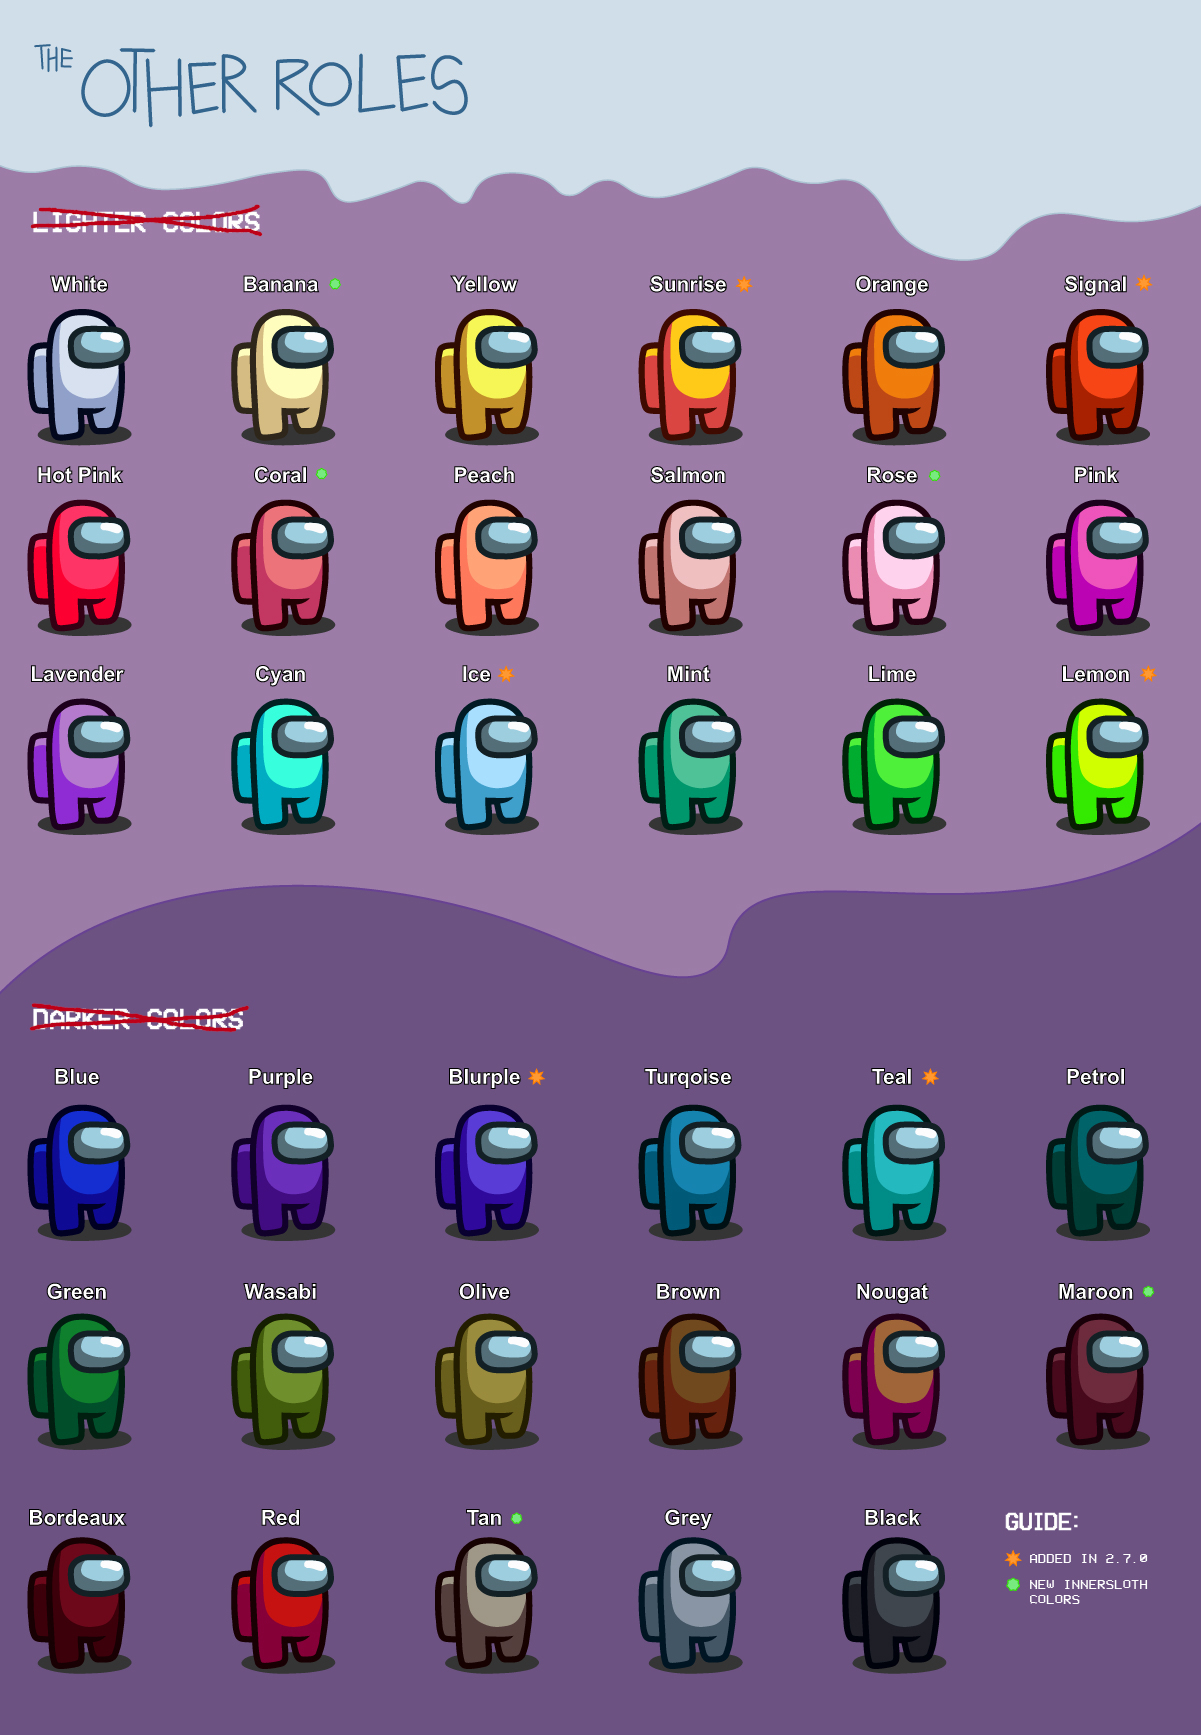
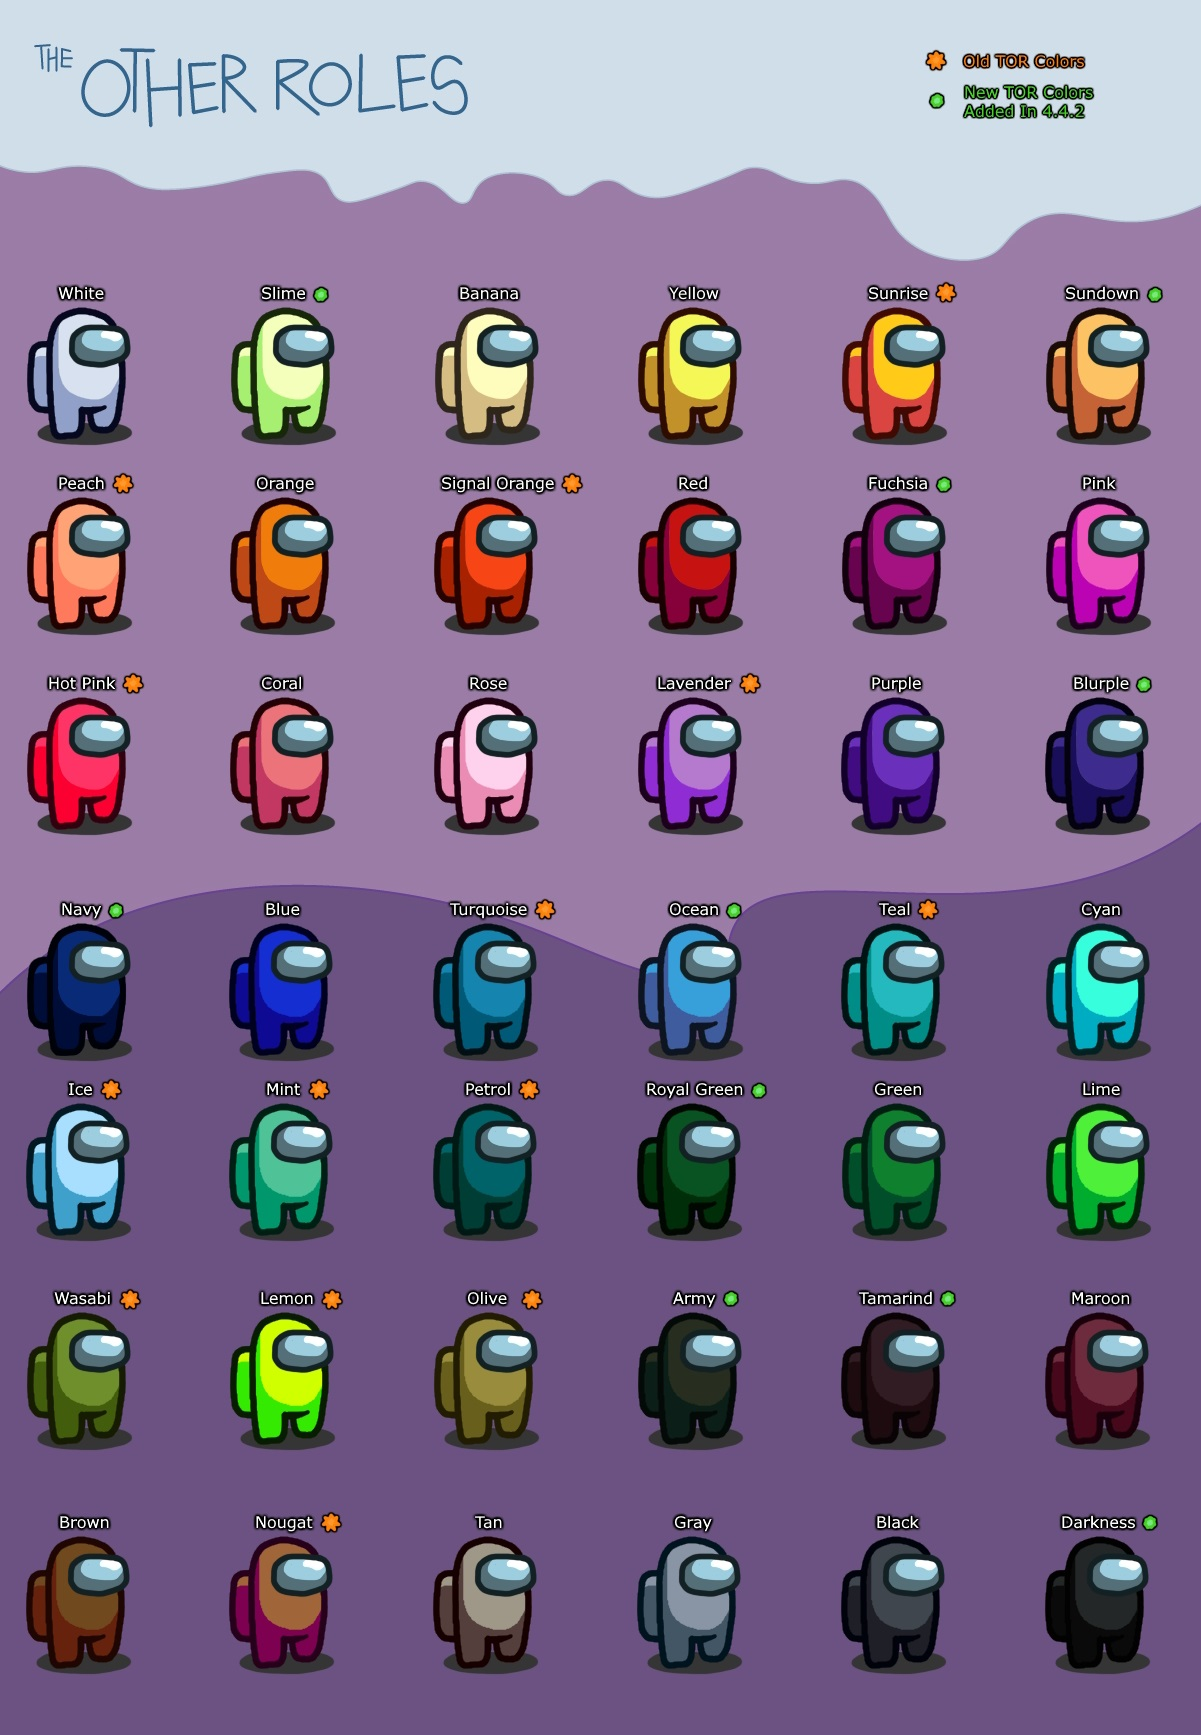
Update to v4.4.2

diff --git a/TheOtherRoles/Modules/CustomColors.cs b/TheOtherRoles/Modules/CustomColors.cs
@@ -10,14 +10,13 @@ namespace TheOtherRoles.Modules {
         protected static Dictionary<int, string> ColorStrings = new Dictionary<int, string>();
         public static List<int> lighterColors = new List<int>(){ 3, 4, 5, 7, 10, 11, 13, 14, 17 };
         public static uint pickableColors = (uint)Palette.ColorNames.Length;
-
-        private static readonly List<int> ORDER = new List<int>() { 7, 14, 5, 33, 4, 
-                                                                    30, 0, 19, 27, 3,
-                                                                    17, 25, 18, 13, 23,
-                                                                    8, 32, 1, 21, 31,
-                                                                    10, 34, 15, 28, 22,
-                                                                    29, 11, 2, 26, 16,
-                                                                    20, 24, 9, 12, 6 };
+        private static readonly List<int> ORDER = new List<int>() { 7, 37, 14, 5, 33, 41, 25,
+                                                                    4, 30, 0, 35, 3, 27, 17,
+                                                                    13, 23, 8, 32, 38, 1, 21,
+                                                                    40, 31, 10, 34, 22, 28, 36,
+                                                                    2, 11, 26, 29, 20, 19, 18,
+                                                                    12, 9, 24, 16, 15, 6, 39,
+                                                                    };
         public static void Load() {
             List<StringNames> longlist = Enumerable.ToList<StringNames>(Palette.ColorNames);
             List<Color32> colorlist = Enumerable.ToList<Color32>(Palette.PlayerColors);
@@ -25,20 +24,23 @@ namespace TheOtherRoles.Modules {
 
             List<CustomColor> colors = new List<CustomColor>();
 
-            /* Custom Colors */
-            colors.Add(new CustomColor { longname = "Salmon",
-                                        color = new Color32(239, 191, 192, byte.MaxValue), // color = new Color32(0xD8, 0x82, 0x83, byte.MaxValue),
-                                        shadow = new Color32(182, 119, 114, byte.MaxValue), // shadow = new Color32(0xA5, 0x63, 0x65, byte.MaxValue),
-                                        isLighterColor = true });
-            colors.Add(new CustomColor { longname = "Bordeaux",
-                                        color = new Color32(109, 7, 26, byte.MaxValue), 
-                                        shadow = new Color32(54, 2, 11, byte.MaxValue),
-                                        isLighterColor = false });
+            /* Custom Colors, starting with id (for ORDER) 18 */
+            colors.Add(new CustomColor {
+                longname = "Tamarind", //18
+                color = new Color32(48, 28, 34, byte.MaxValue),
+                shadow = new Color32(30, 11, 16, byte.MaxValue),
+                isLighterColor = true });
+            colors.Add(new CustomColor {
+                longname = "Army", // 19
+                color = new Color32(39, 45, 31, byte.MaxValue),
+                shadow = new Color32(11, 30, 24, byte.MaxValue),
+                isLighterColor = false });
+            // 20
             colors.Add(new CustomColor { longname = "Olive",
                                         color = new Color32(154, 140, 61, byte.MaxValue), 
                                         shadow = new Color32(104, 95, 40, byte.MaxValue),
-                                        isLighterColor = false });
-            colors.Add(new CustomColor { longname = "Turqoise",
+                                        isLighterColor = true });
+            colors.Add(new CustomColor { longname = "Turquoise",
                                         color = new Color32(22, 132, 176, byte.MaxValue), 
                                         shadow = new Color32(15, 89, 117, byte.MaxValue),
                                         isLighterColor = false });
@@ -54,6 +56,7 @@ namespace TheOtherRoles.Modules {
                                         color = new Color32(160, 101, 56, byte.MaxValue), 
                                         shadow = new Color32(115, 15, 78, byte.MaxValue),
                                         isLighterColor = false });
+            // 25
             colors.Add(new CustomColor { longname = "Peach",
                                         color = new Color32(255, 164, 119, byte.MaxValue), 
                                         shadow = new Color32(238, 128, 100, byte.MaxValue),
@@ -74,44 +77,85 @@ namespace TheOtherRoles.Modules {
                                         color = new Color32(0xDB, 0xFD, 0x2F, byte.MaxValue), 
                                         shadow = new Color32(0x74, 0xE5, 0x10, byte.MaxValue), 
                                         isLighterColor = true });
+            // 30
             colors.Add(new CustomColor { longname = "Signal\nOrange",
                                         color = new Color32(0xF7, 0x44, 0x17, byte.MaxValue), 
                                         shadow = new Color32(0x9B, 0x2E, 0x0F, byte.MaxValue),
                                         isLighterColor = true });   
-
             colors.Add(new CustomColor { longname = "Teal",
                                         color = new Color32(0x25, 0xB8, 0xBF, byte.MaxValue), 
                                         shadow = new Color32(0x12, 0x89, 0x86, byte.MaxValue),
-                                        isLighterColor = false });   
+                                        isLighterColor = true });   
 
             colors.Add(new CustomColor { longname = "Blurple",
-                                        color = new Color32(0x59, 0x3C, 0xD6, byte.MaxValue), 
-                                        shadow = new Color32(0x29, 0x17, 0x96, byte.MaxValue),
+                                        color = new Color32(61, 44, 142, byte.MaxValue), 
+                                        shadow = new Color32(25, 14, 90, byte.MaxValue),
                                         isLighterColor = false });   
 
             colors.Add(new CustomColor { longname = "Sunrise", 
                                         color = new Color32(0xFF, 0xCA, 0x19, byte.MaxValue), 
                                         shadow = new Color32(0xDB, 0x44, 0x42, byte.MaxValue),
                                         isLighterColor = true });
-
             colors.Add(new CustomColor { longname = "Ice",
                                         color = new Color32(0xA8, 0xDF, 0xFF, byte.MaxValue), 
                                         shadow = new Color32(0x59, 0x9F, 0xC8, byte.MaxValue),
-                                        isLighterColor = true });     
-
+                                        isLighterColor = true });
+            // 35
+            colors.Add(new CustomColor { longname = "Fuchsia", //35 Color Credit: LaikosVK
+                                        color = new Color32(164, 17, 129, byte.MaxValue),
+                                        shadow = new Color32(104, 3, 79, byte.MaxValue),
+                                        isLighterColor = false
+            });
+            colors.Add(new CustomColor { longname = "Royal\nGreen", //36
+                                        color = new Color32(9, 82, 33, byte.MaxValue),
+                                        shadow = new Color32(0, 46, 8, byte.MaxValue),
+                                        isLighterColor = false
+            });
+            colors.Add(new CustomColor { longname = "Slime",
+                                        color = new Color32(244, 255, 188, byte.MaxValue),
+                                        shadow = new Color32(167, 239, 112, byte.MaxValue),
+                                        isLighterColor = false
+            });
+            colors.Add(new CustomColor { longname = "Navy", //38
+                                        color = new Color32(9, 43, 119, byte.MaxValue),
+                                        shadow = new Color32(0, 13, 56, byte.MaxValue),
+                                        isLighterColor = false
+            });
+            colors.Add(new CustomColor { longname = "Darkness", //39
+                                        color = new Color32(36, 39, 40, byte.MaxValue),
+                                        shadow = new Color32(10, 10, 10, byte.MaxValue),
+                                        isLighterColor = false
+            });
+            colors.Add(new CustomColor {
+                longname = "Ocean", //40
+                color = new Color32(55, 159, 218, byte.MaxValue),
+                shadow = new Color32(62, 92, 158, byte.MaxValue),
+                isLighterColor = false
+            });
+            colors.Add(new CustomColor {
+                longname = "Sundown", // 41
+                color = new Color32(252, 194, 100, byte.MaxValue),
+                shadow = new Color32(197, 98, 54, byte.MaxValue),
+                isLighterColor = false
+            });
             pickableColors += (uint)colors.Count; // Colors to show in Tab
             /** Hidden Colors **/     
                     
             /** Add Colors **/
             int id = 50000;
+            foreach (var c in Palette.PlayerColors) {
+                TheOtherRolesPlugin.Logger.LogMessage(c);
+            }
             foreach (CustomColor cc in colors) {
                 longlist.Add((StringNames)id);
                 CustomColors.ColorStrings[id++] = cc.longname;
                 colorlist.Add(cc.color);
+                TheOtherRolesPlugin.Logger.LogMessage(cc.color);
                 shadowlist.Add(cc.shadow);
                 if (cc.isLighterColor)
                     lighterColors.Add(colorlist.Count - 1);
             }
+            
 
             Palette.ColorNames = longlist.ToArray();
             Palette.PlayerColors = colorlist.ToArray();
@@ -149,15 +193,15 @@ namespace TheOtherRoles.Modules {
                 public static void Postfix(PlayerTab __instance) { // Replace instead
                     Il2CppArrayBase<ColorChip> chips = __instance.ColorChips.ToArray();
 
-                    int cols = 5; // TODO: Design an algorithm to dynamically position chips to optimally fill space
+                    int cols = 7; // TODO: Design an algorithm to dynamically position chips to optimally fill space
                     for (int i = 0; i < ORDER.Count; i++) {
                         int pos = ORDER[i];
                         if (pos < 0 || pos > chips.Length)
                             continue;
                         ColorChip chip = chips[pos];
                         int row = i / cols, col = i % cols; // Dynamically do the positioning
-                        chip.transform.localPosition = new Vector3(-0.975f + (col * 0.485f), 1.475f - (row * 0.49f), chip.transform.localPosition.z);
-                        chip.transform.localScale *= 0.78f;
+                        chip.transform.localPosition = new Vector3(-0.975f + (col * 0.5f), 1.475f - (row * 0.5f), chip.transform.localPosition.z);
+                        chip.transform.localScale *= 0.76f;
                     }
                     for (int j = ORDER.Count; j < chips.Length; j++) { // If number isn't in order, hide it
                         ColorChip chip = chips[j];

diff --git a/TheOtherRoles/Patches/CredentialsPatch.cs b/TheOtherRoles/Patches/CredentialsPatch.cs
@@ -1,5 +1,8 @@
 using HarmonyLib;
 using System;
+using System.Collections.Generic;
+using System.Net.Http;
+using System.Threading.Tasks;
 using TheOtherRoles;
 using TheOtherRoles.CustomGameModes;
 using TheOtherRoles.Players;
@@ -76,6 +79,10 @@ $@"<size=60%> <color=#FCCE03FF>Special thanks to K3ndo & Smeggy</color></size>";
             public static Sprite horseBannerSprite;
             public static Sprite banner2Sprite;
             private static PingTracker instance;
+
+            public static GameObject motdObject;
+            public static TextMeshPro motdText;
+
             static void Postfix(PingTracker __instance) {
                 var torLogo = new GameObject("bannerLogo_TOR");
                 torLogo.transform.SetParent(GameObject.Find("RightPanel").transform, false);
@@ -96,7 +103,23 @@ $@"<size=60%> <color=#FCCE03FF>Special thanks to K3ndo & Smeggy</color></size>";
                 credentials.fontSize *= 0.05f;
 
                 credentials.transform.SetParent(torLogo.transform);
-                credentials.transform.localPosition = Vector3.down * 2;
+                credentials.transform.localPosition = Vector3.down * 1.25f;
+                motdObject = new GameObject("torMOTD");
+                motdText = motdObject.AddComponent<TextMeshPro>();
+                motdText.alignment = TMPro.TextAlignmentOptions.Center;
+                motdText.fontSize *= 0.04f;
+
+                motdText.transform.SetParent(torLogo.transform);
+                motdText.enableWordWrapping = true;
+                var rect = motdText.gameObject.GetComponent<RectTransform>();
+                rect.sizeDelta = new Vector2(5.2f, 0.25f);
+
+                motdText.transform.localPosition = Vector3.down * 2.25f;
+                motdText.color = new Color(1, 53f / 255, 31f / 255);
+                Material mat = motdText.fontSharedMaterial;
+                mat.shaderKeywords = new string[] { "OUTLINE_ON" };
+                motdText.SetOutlineColor(Color.white);
+                motdText.SetOutlineThickness(0.025f);
             }
 
             public static void loadSprites() {
@@ -121,5 +144,43 @@ $@"<size=60%> <color=#FCCE03FF>Special thanks to K3ndo & Smeggy</color></size>";
                 }
             }
         }
+
+        [HarmonyPatch(typeof(MainMenuManager), nameof(MainMenuManager.LateUpdate))]
+        public static class MOTD {
+            public static List<string> motds = new List<string>();
+            private static float timer = 0f;
+            private static float maxTimer = 5f;
+            private static int currentIndex = 0;
+
+            public static void Postfix() {
+                if (motds.Count == 0) {
+                    timer = maxTimer;
+                    return;
+                }
+                if (motds.Count > currentIndex && LogoPatch.motdText != null)
+                    LogoPatch.motdText.SetText(motds[currentIndex]);
+                else return;
+
+                // fade in and out:
+                float alpha = Mathf.Clamp01(Mathf.Min(new float[] { timer, maxTimer - timer }));
+                if (motds.Count == 1) alpha = 1;
+                LogoPatch.motdText.color = LogoPatch.motdText.color.SetAlpha(alpha);
+                timer -= Time.deltaTime;
+                if (timer <= 0) {
+                    timer = maxTimer;
+                    currentIndex = (currentIndex + 1) % motds.Count;
+                }
+            }
+
+            public static async Task loadMOTDs() {
+                HttpClient client = new HttpClient();
+                HttpResponseMessage response = await client.GetAsync("https://raw.githubusercontent.com/TheOtherRolesAU/MOTD/main/motd.txt");
+                response.EnsureSuccessStatusCode();
+                string motds = await response.Content.ReadAsStringAsync();
+                foreach(string line in motds.Split("\n", StringSplitOptions.RemoveEmptyEntries)) {
+                        MOTD.motds.Add(line);
+                }
+            }
+        }        
     }
 }

diff --git a/TheOtherRoles/RoleInfo.cs b/TheOtherRoles/RoleInfo.cs
@@ -6,6 +6,8 @@ using static TheOtherRoles.TheOtherRoles;
 using UnityEngine;
 using TheOtherRoles.Utilities;
 using TheOtherRoles.CustomGameModes;
+using System.Threading.Tasks;
+using System.Net.Http;
 
 namespace TheOtherRoles
 {
@@ -325,6 +327,27 @@ namespace TheOtherRoles
                 }
             }
             return roleName;
+        }
+
+
+        static string ReadmePage = "";
+        public static async Task loadReadme() {
+            if (ReadmePage == "") {
+                HttpClient client = new HttpClient();
+                HttpResponseMessage response = await client.GetAsync("https://raw.githubusercontent.com/TheOtherRolesAU/TheOtherRoles/main/README.md");
+                response.EnsureSuccessStatusCode();
+                string httpres = await response.Content.ReadAsStringAsync();
+                ReadmePage = httpres;
+            }
+        }
+        public static string GetRoleDescription(RoleInfo roleInfo) {
+            while (ReadmePage == "") {
+            }
+                
+            int index = ReadmePage.IndexOf($"## {roleInfo.name}");
+            int endindex = ReadmePage.Substring(index).IndexOf("### Game Options");
+            return ReadmePage.Substring(index, endindex);
+
         }
     }
 }

diff --git a/TheOtherRoles/Main.cs b/TheOtherRoles/Main.cs
@@ -31,7 +31,7 @@ namespace TheOtherRoles
     public class TheOtherRolesPlugin : BasePlugin
     {
         public const string Id = "me.eisbison.theotherroles";
-        public const string VersionString = "4.4.1";
+        public const string VersionString = "4.4.2";
         public static uint betaDays = 0;  // amount of days for the build to be usable (0 for infinite!)
 
         public static Version Version = Version.Parse(VersionString);
@@ -92,6 +92,7 @@ namespace TheOtherRoles
             Instance = this;
   
             _ = Helpers.checkBeta(); // Exit if running an expired beta
+            _ = Patches.CredentialsPatch.MOTD.loadMOTDs();
 
             DebugMode = Config.Bind("Custom", "Enable Debug Mode", "false");
             GhostsSeeInformation = Config.Bind("Custom", "Ghosts See Remaining Tasks", true);
@@ -125,7 +126,7 @@ namespace TheOtherRoles
             SubmergedCompatibility.Initialize();
             AddComponent<ModUpdateBehaviour>();
             Modules.MainMenuPatch.addSceneChangeCallbacks();
-
+            _ = RoleInfo.loadReadme();
             TheOtherRolesPlugin.Logger.LogInfo("Loading TOR completed!");
         }
         public static Sprite GetModStamp() {

diff --git a/TheOtherRoles/Modules/ChatCommands.cs b/TheOtherRoles/Modules/ChatCommands.cs
@@ -64,6 +64,15 @@ namespace TheOtherRoles.Modules {
                     }
                 }
 
+                if (text.ToLower().StartsWith("/role")) {
+                    RoleInfo localRole = RoleInfo.getRoleInfoForPlayer(CachedPlayer.LocalPlayer.PlayerControl, false).FirstOrDefault();
+                    if (localRole != RoleInfo.impostor && localRole != RoleInfo.crewmate) {
+                        string info = RoleInfo.GetRoleDescription(localRole);
+                        __instance.AddChat(CachedPlayer.LocalPlayer.PlayerControl, info);
+                        handled = true;
+                    }
+                }
+
                 if (handled) {
                     __instance.freeChatField.Clear();
                     __instance.quickChatMenu.Clear();

diff --git a/TheOtherRoles/Helpers.cs b/TheOtherRoles/Helpers.cs
@@ -45,7 +45,7 @@ namespace TheOtherRoles {
                 if (cache) sprite.hideFlags |= HideFlags.HideAndDontSave | HideFlags.DontSaveInEditor;
                 if (!cache) return sprite;
                 return CachedSprites[path + pixelsPerUnit] = sprite;
-            } catch (Exception e) {
+            } catch {
                 System.Console.WriteLine("Error loading sprite from path: " + path);
             }
             return null;

diff --git a/README.md b/README.md
@@ -42,6 +42,7 @@ The [Role Assignment](#role-assignment) sections explains how the roles are bein
 # Releases
 | Among Us - Version| Mod Version | Link |
 |----------|-------------|-----------------|
+| 2023.07.12s| v4.4.2| [Download](https://github.com/TheOtherRolesAU/TheOtherRoles/releases/download/v4.4.2/TheOtherRoles.zip)
 | 2023.07.12s| v4.4.1| [Download](https://github.com/TheOtherRolesAU/TheOtherRoles/releases/download/v4.4.1/TheOtherRoles.zip)
 | 2023.07.12s| v4.4.0| [Download](https://github.com/TheOtherRolesAU/TheOtherRoles/releases/download/v4.4.0/TheOtherRoles.zip)
 | 2023.07.12s| v4.3.4| [Download](https://github.com/Eisbison/TheOtherRoles/releases/download/v4.3.4/TheOtherRoles.zip)
@@ -126,6 +127,10 @@ The [Role Assignment](#role-assignment) sections explains how the roles are bein
 # Changelog
 <details>
   <summary>Click to show the Changelog</summary>
+
+**Version 4.4.2**
+- Added 10 new colors and adapted some existing ones (thanks to Avlona & Listoric for sorting our colors!)
+- Added a message of the day feature in the main menu. Look out for interesting news and lame jokes!
 
 **Version 4.4.1**
 - Fixed a bug where PropHunt buttons did not work for the Hunters after watching the intro cutscene.
@@ -896,6 +901,8 @@ Here are a few instructions, on how to create a custom hat:
 
 # Colors
 Note: Lighter and Darker colors are no longer based on the players color. Instead they are assigned alternatingly, s.t. they are always balanced in a lobby.
+
+A big thank you goes to Avlona & Listoric for sorting the colors in the best possible order (which is surprisingly hard to do)!
 ![TOR Colors](./Images/TOR_colors.jpg)
 
 # Roles
